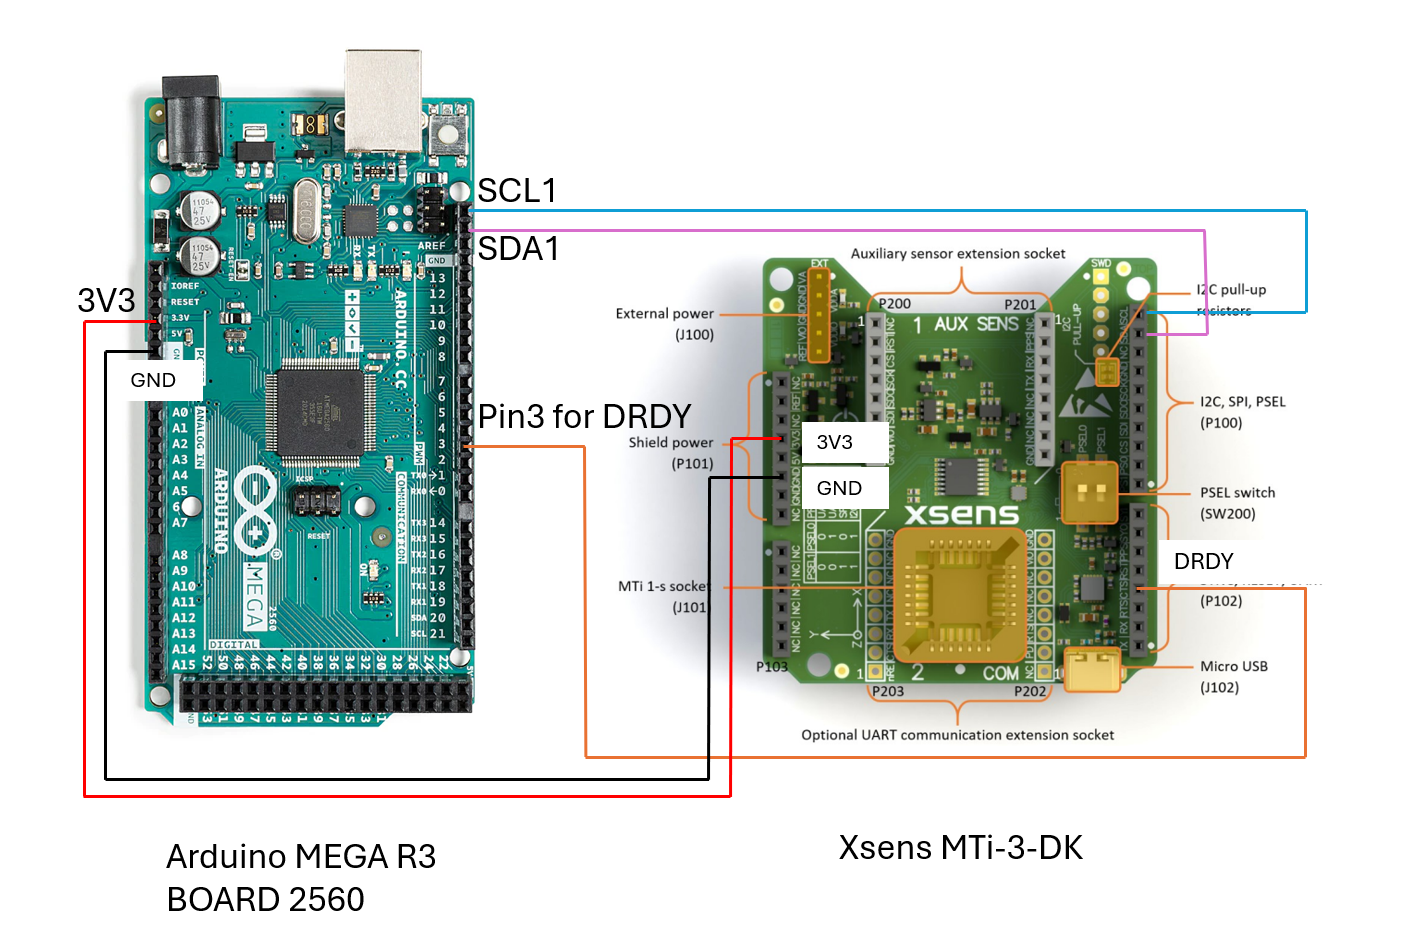
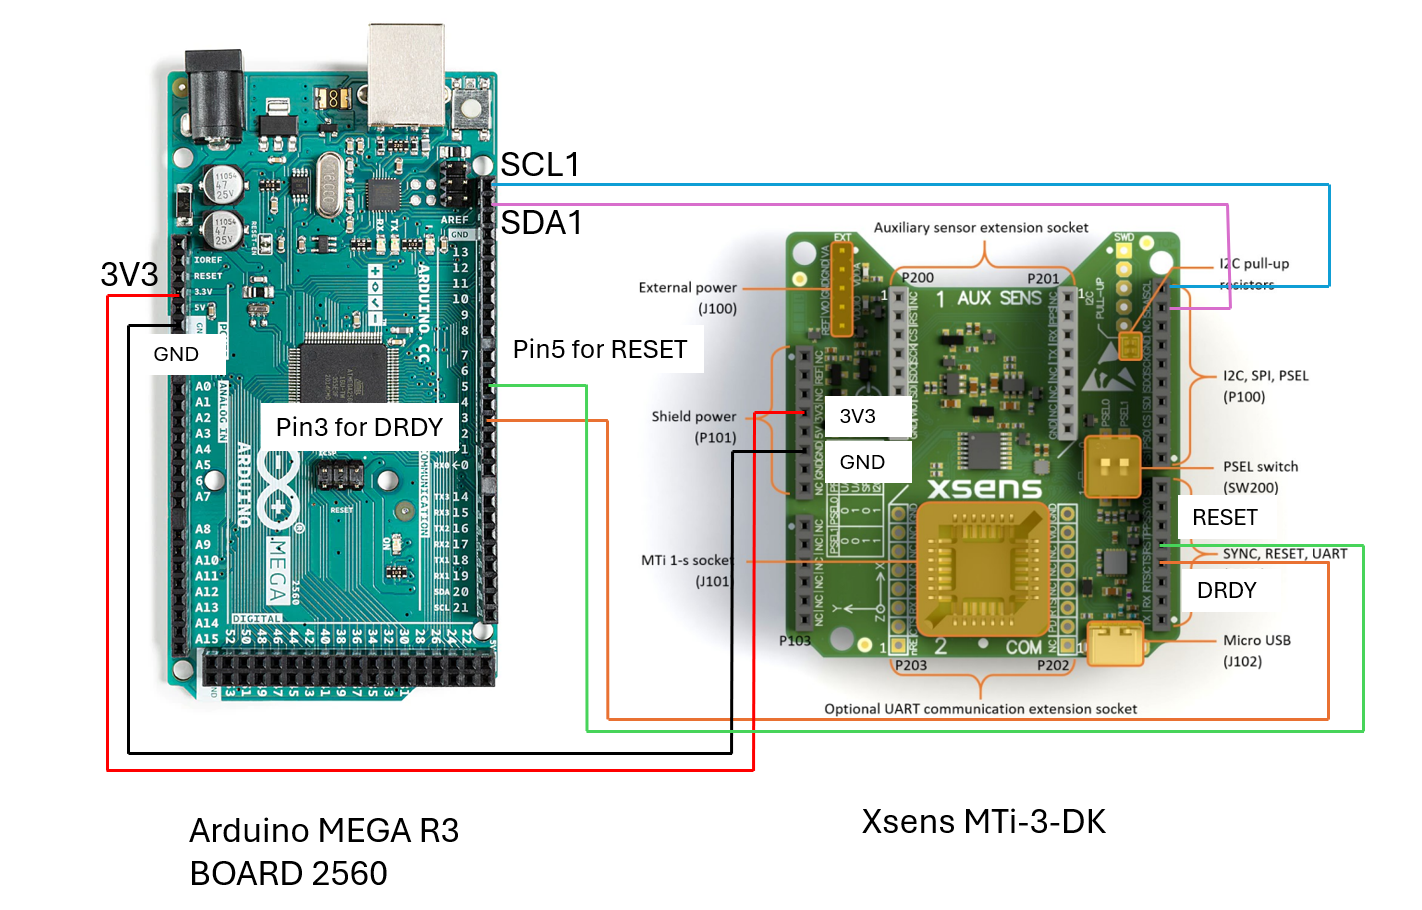
update the mt_application.cpp to use hardware reset, because the software reset is not reliable after power on.

diff --git a/mt_application.cpp b/mt_application.cpp
@@ -4,8 +4,8 @@
 #include "xbustostring.h"
 #include "data_parser.h"
 
-MtApplication::MtApplication(MtsspDriver* driver, uint8_t drdy)
-  : m_state(STATE_Idle), m_driver(driver), m_drdy(drdy) {
+MtApplication::MtApplication(MtsspDriver* driver, uint8_t drdy, uint8_t resetpin)
+  : m_state(STATE_Idle), m_driver(driver), m_drdy(drdy), m_resetpin(resetpin) {
   m_device = new MtsspInterface(m_driver);
   m_parser = new DataParser();
   m_xspacket = new XsDataPacket();
@@ -81,14 +81,6 @@ void MtApplication::handleEvent(Event event, const uint8_t* data) {
           m_device->sendXbusMessage(m_xbusTxBuffer);
           m_state = STATE_WaitForDeviceId;
         }
-        else
-        {
-          //doesn't work, have to reset it again, this is useful for the first time powering up the Arduino Mega board.
-          Serial.println("Resetting the device again");
-          m_state = STATE_Idle;
-          handleEvent(EVT_Start);
-        }
-
       }
       break;
 
@@ -173,8 +165,9 @@ void MtApplication::handleEvent(Event event, const uint8_t* data) {
           {
             //Debug print the raw hex bytes
             // int data_length = data[3] + 5;
-            // String hexStr = bytesToHexString(data, data_length);
-            // Serial.println(hexStr);
+            // `Serial.write()` sends the raw bytes to the serial port
+            // Serial.write(data, data_length);
+
             m_parser->parseDataPacket(data);
             m_xspacket = m_parser->getXsDatePacket();
             
@@ -189,12 +182,14 @@ void MtApplication::handleEvent(Event event, const uint8_t* data) {
 }
 
 
-
+//Hardware reset the MTi-1
 void MtApplication::resetDevice() {
-  //Software reset: FA FF 40 00 C1
-  // cout << "MtApplication::resetDevice sending reset message 40 00 C1" <<endl;
-  Xbus_message(m_xbusTxBuffer, 0xFF, XMID_Reset, 0);
-  m_device->sendXbusMessage(m_xbusTxBuffer);
+  // Drive the pin low to reset the sensor
+  digitalWrite(m_resetpin, HIGH);
+  delay(1000);  // Keep the pin high for 1000 milliseconds
+
+  //drive the pin low again
+  digitalWrite(m_resetpin, LOW);
 }
 
 

diff --git a/mt_application.h b/mt_application.h
@@ -38,7 +38,7 @@ typedef void (*LiveDataCallback)(const XsDataPacket*, size_t size);
 
 class MtApplication {
 public:
-  MtApplication(MtsspDriver* driver, uint8_t drdy);
+  MtApplication(MtsspDriver* driver, uint8_t drdy, uint8_t resetpin);
   ~MtApplication();
   bool start();
   void readData();
@@ -59,9 +59,9 @@ private:
   LiveDataCallback onLiveDataAvailable = nullptr;
   XsDataPacket m_packet;
 
-  // std::function<void(const XsDataPacket&)> onLiveDataAvailable;
 
   uint8_t m_drdy;
+  uint8_t m_resetpin;
   DataParser* m_parser; //For Arduino, we must use dynamic library for this, otherwise, the prints get stuck.
   XsDataPacket* m_xspacket;
 };

diff --git a/README.MD b/README.MD
@@ -11,6 +11,7 @@ This example code is tested between the [Arduino MEGA R3 Board 2560](https://doc
 | 3V3 Power     | 3V3(P101-4)  |
 | GND           | GND(P101-6)  |
 | Digital Pin 3 | DRDY(P102-4) |
+| Digital Pin 5 | RESET(P102-5) |
 | SDA1          | SDA(P100-9)  |
 | SCL1          | SCL(P100-10) |
 
